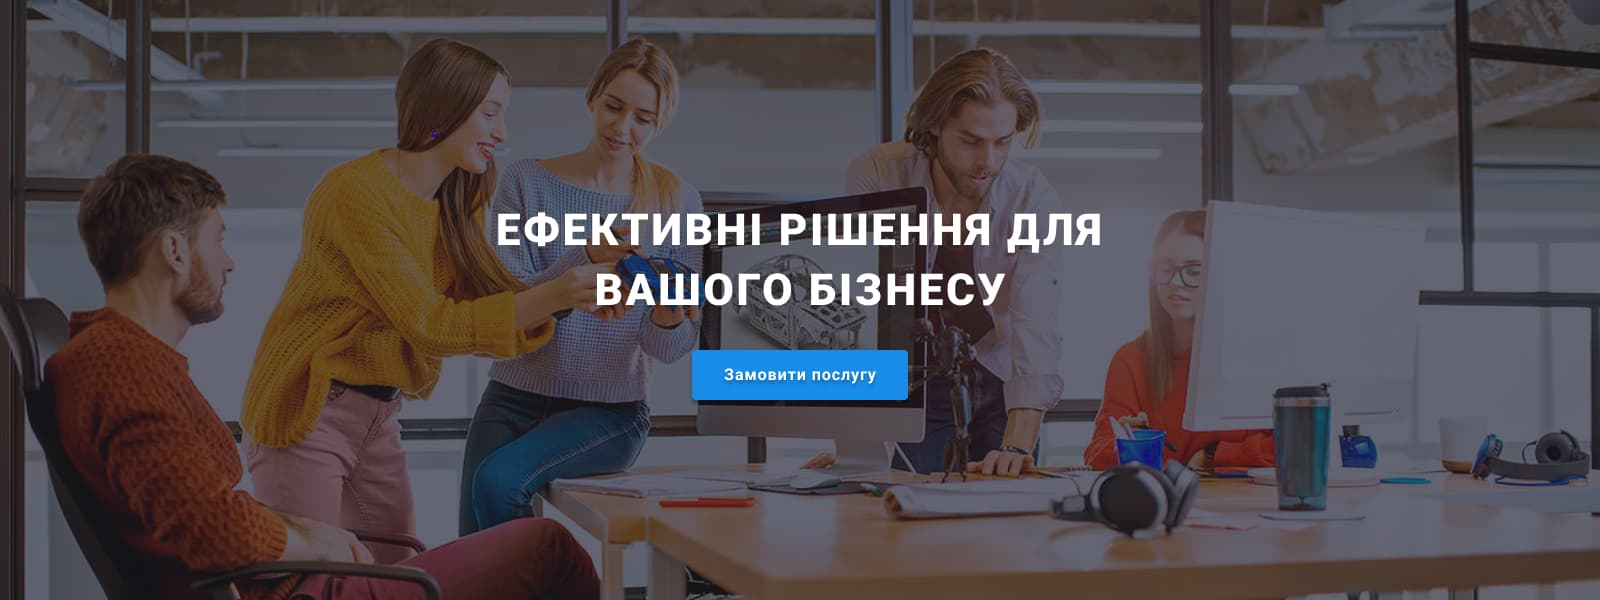
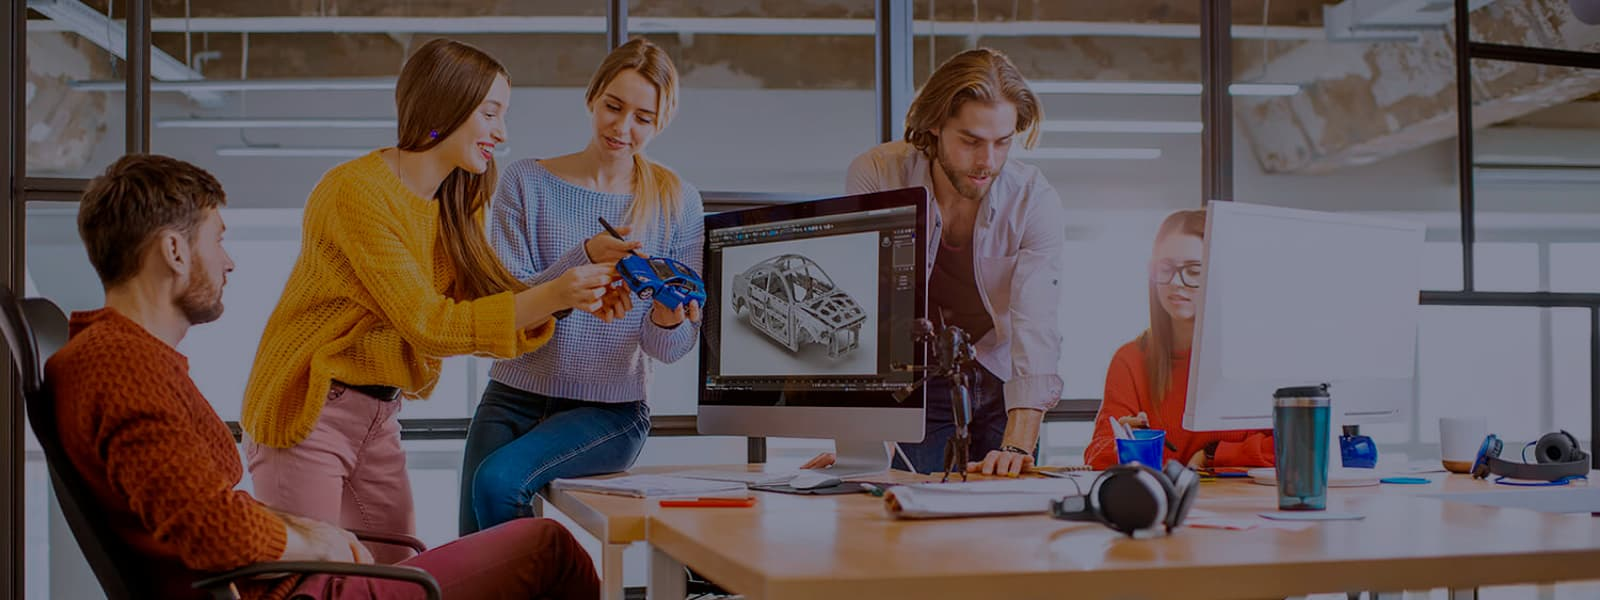
making changes

diff --git a/css/styles.css b/css/styles.css
@@ -182,7 +182,7 @@ body {
   background-color: var(--footer-color);
 
   max-width: 1600px;
-  height: 600px;
+  min-height: 600px;
   margin-left: auto;
   margin-right: auto;
   background-image: linear-gradient(to right, rgba(47, 48, 58, 0.4), rgba(47, 48, 58, 0.4)),
@@ -215,8 +215,6 @@ body {
   box-shadow: 0px 4px 4px var(--color-box-shadow);
   border-radius: 4px;
 
-  /* text-shadow: 0px 4px 4px var(--color-text-shadow); */
-
   font-family: inherit;
   font-weight: 700;
   font-size: 16px;
@@ -231,11 +229,7 @@ body {
 .button:active,
 .button:hover,
 .button:focus {
-  box-shadow: 0px 4px 4px var(--color-box-shadow);
-  border-radius: 4px;
   background-color: var(--color-active);
-  color: var(--hero-color);
-  /* text-shadow: 0px 4px 4px var(--color-text-shadow); */
 }
 
 /* section */
@@ -269,10 +263,13 @@ body {
 
 .icon-features {
   display: flex;
+  width: 270px;
+  height: 120px;
   align-items: center;
   justify-content: center;
   background-color: var(--color-fon-team);
   margin-bottom: 30px;
+  border-radius: 4px;
 }
 /* 
 .item-features::before {
@@ -347,7 +344,6 @@ body {
   margin-top: 16px;
 }
 .social-item {
-  display: flex;
   margin-right: 10px;
 }
 .social-item:last-child {
@@ -362,7 +358,8 @@ body {
   border-radius: 50%;
   fill: var(--color-border-customers);
 }
-.icon-link-team:hover {
+.icon-link-team:hover,
+.icon-link-team:focus {
   fill: var(--hero-color);
   background-color: var(--link-color);
 }
@@ -382,8 +379,8 @@ body {
   border-radius: 0px;
 }
 .conteiner-title {
-  width: 270px;
-  padding: 30px 61px;
+  padding-top: 30px;
+  padding-bottom: 30px;
   text-align: center;
 }
 
@@ -427,22 +424,28 @@ body {
 }
 .customer-list {
   display: flex;
-  justify-content: space-between;
 }
+
 .customers-team {
-  border: 1px solid var(--color-border-customers);
-  border-radius: 4px;
+  margin-right: 30px;
 }
+.customers-team:last-child {
+  margin-right: 0;
+}
+
 .customers-link {
   width: 170px;
   height: 92px;
+  border-radius: 4px;
+  border: 1px solid var(--color-border-customers);
   align-items: center;
   justify-content: center;
   display: flex;
   fill: var(--color-border-customers);
 }
 
-.customers-link:hover {
+.customers-link:hover,
+.customers-link:focus {
   border: 1px solid var(--link-color);
   fill: var(--link-color);
 }
@@ -496,7 +499,8 @@ body {
   background-color: rgba(255, 255, 255, 0.1);
 }
 
-.icon-footer-link:hover {
+.icon-footer-link:hover,
+.icon-footer-link:focus {
   background-color: var(--link-color);
 }
 

diff --git a/index.html b/index.html
@@ -37,15 +37,15 @@
             <li class="item">
               <a class="contacts-link" href="mailto:info@devstudio.com">
                 <svg class="icon-envelope" width="16" height="12">
-                  <use href="./img/sprite.svg#icon-envelope"></use>
+                  <use href="./img/spritethree.svg#icon-envelope"></use>
                 </svg>
                 info@devstudio.com</a
               >
             </li>
             <li class="item">
               <a class="contacts-link" href="tel:+380961111111">
-                <svg class="icon-smartphone" width="16" height="12">
-                  <use href="./img/sprite.svg#icon-smartphone"></use>
+                <svg class="icon-smartphone" width="10" height="16">
+                  <use href="./img/spritethree.svg#icon-smartphone"></use>
                 </svg>
                 +38 096 111 11 11</a
               >
@@ -57,12 +57,10 @@
 
     <main>
       <!--secttion hero-->
-      <div class="overlay">
-        <section class="section-hero">
-          <h1 class="hero-title">Ефективні рішення для вашого бізнесу</h1>
-          <button class="button" type="button">Замовити послугу</button>
-        </section>
-      </div>
+      <section class="section-hero">
+        <h1 class="hero-title">Ефективні рішення для вашого бізнесу</h1>
+        <button class="button" type="button">Замовити послугу</button>
+      </section>
 
       <!--features-->
 

diff --git a/portfolio.html b/portfolio.html
@@ -38,15 +38,15 @@
             <li class="item">
               <a class="contacts-link" href="mailto:info@devstudio.com">
                 <svg class="icon-envelope" width="16" height="12">
-                  <use href="./img/sprite.svg#icon-envelope"></use>
+                  <use href="./img/spritethree.svg#icon-envelope"></use>
                 </svg>
                 info@devstudio.com</a
               >
             </li>
             <li class="item">
               <a class="contacts-link" href="tel:+380961111111">
-                <svg class="icon-smartphone" width="16" height="12">
-                  <use href="./img/sprite.svg#icon-smartphone"></use>
+                <svg class="icon-smartphone" width="10" height="16">
+                  <use href="./img/spritethree.svg#icon-smartphone"></use>
                 </svg>
                 +38 096 111 11 11</a
               >
